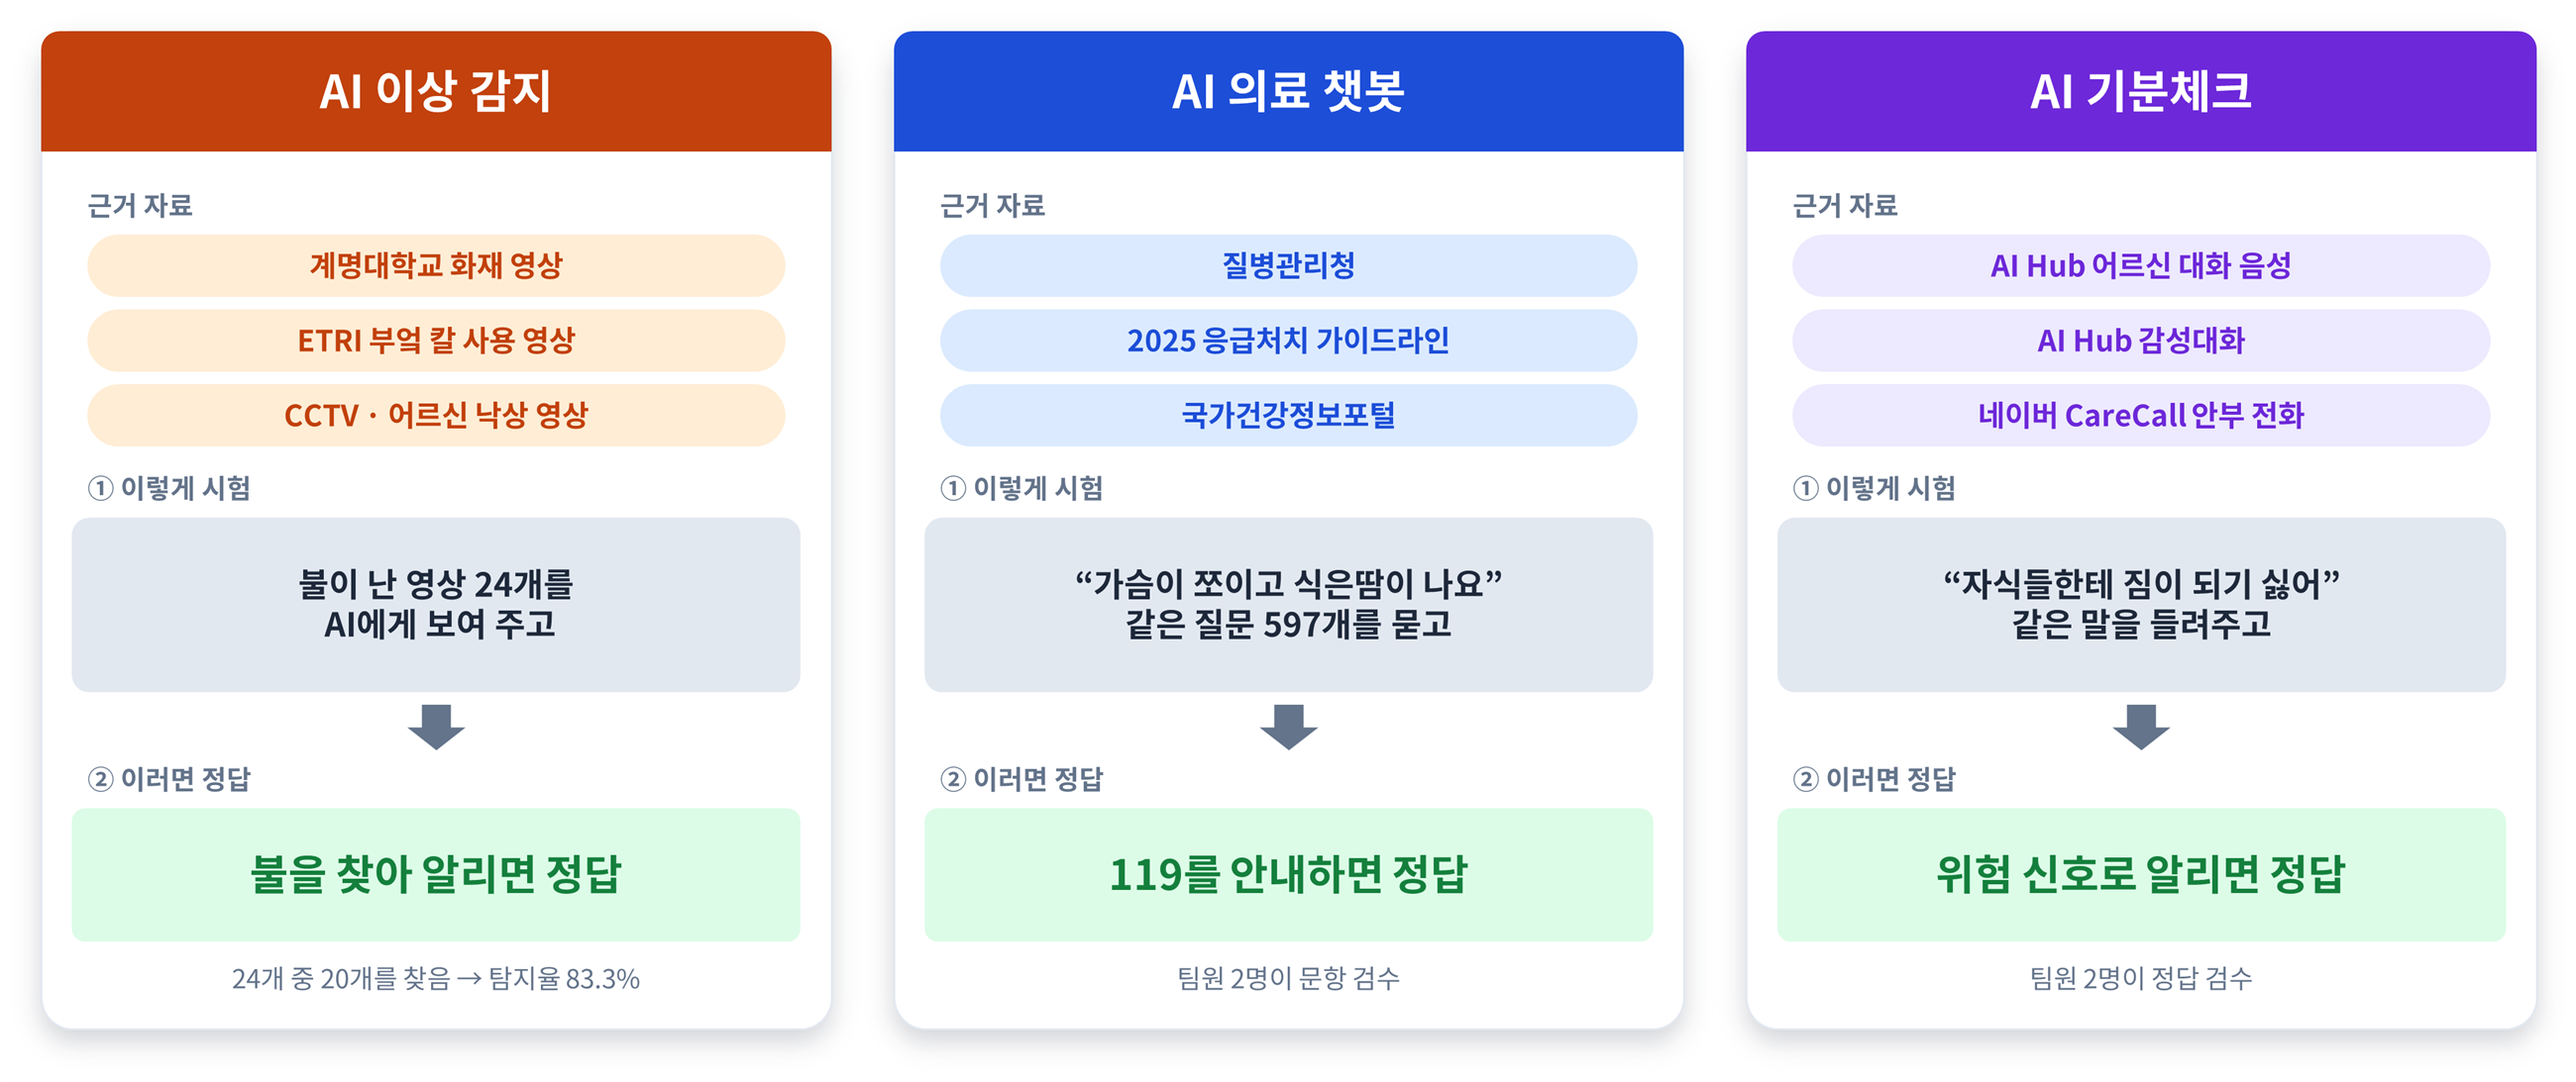
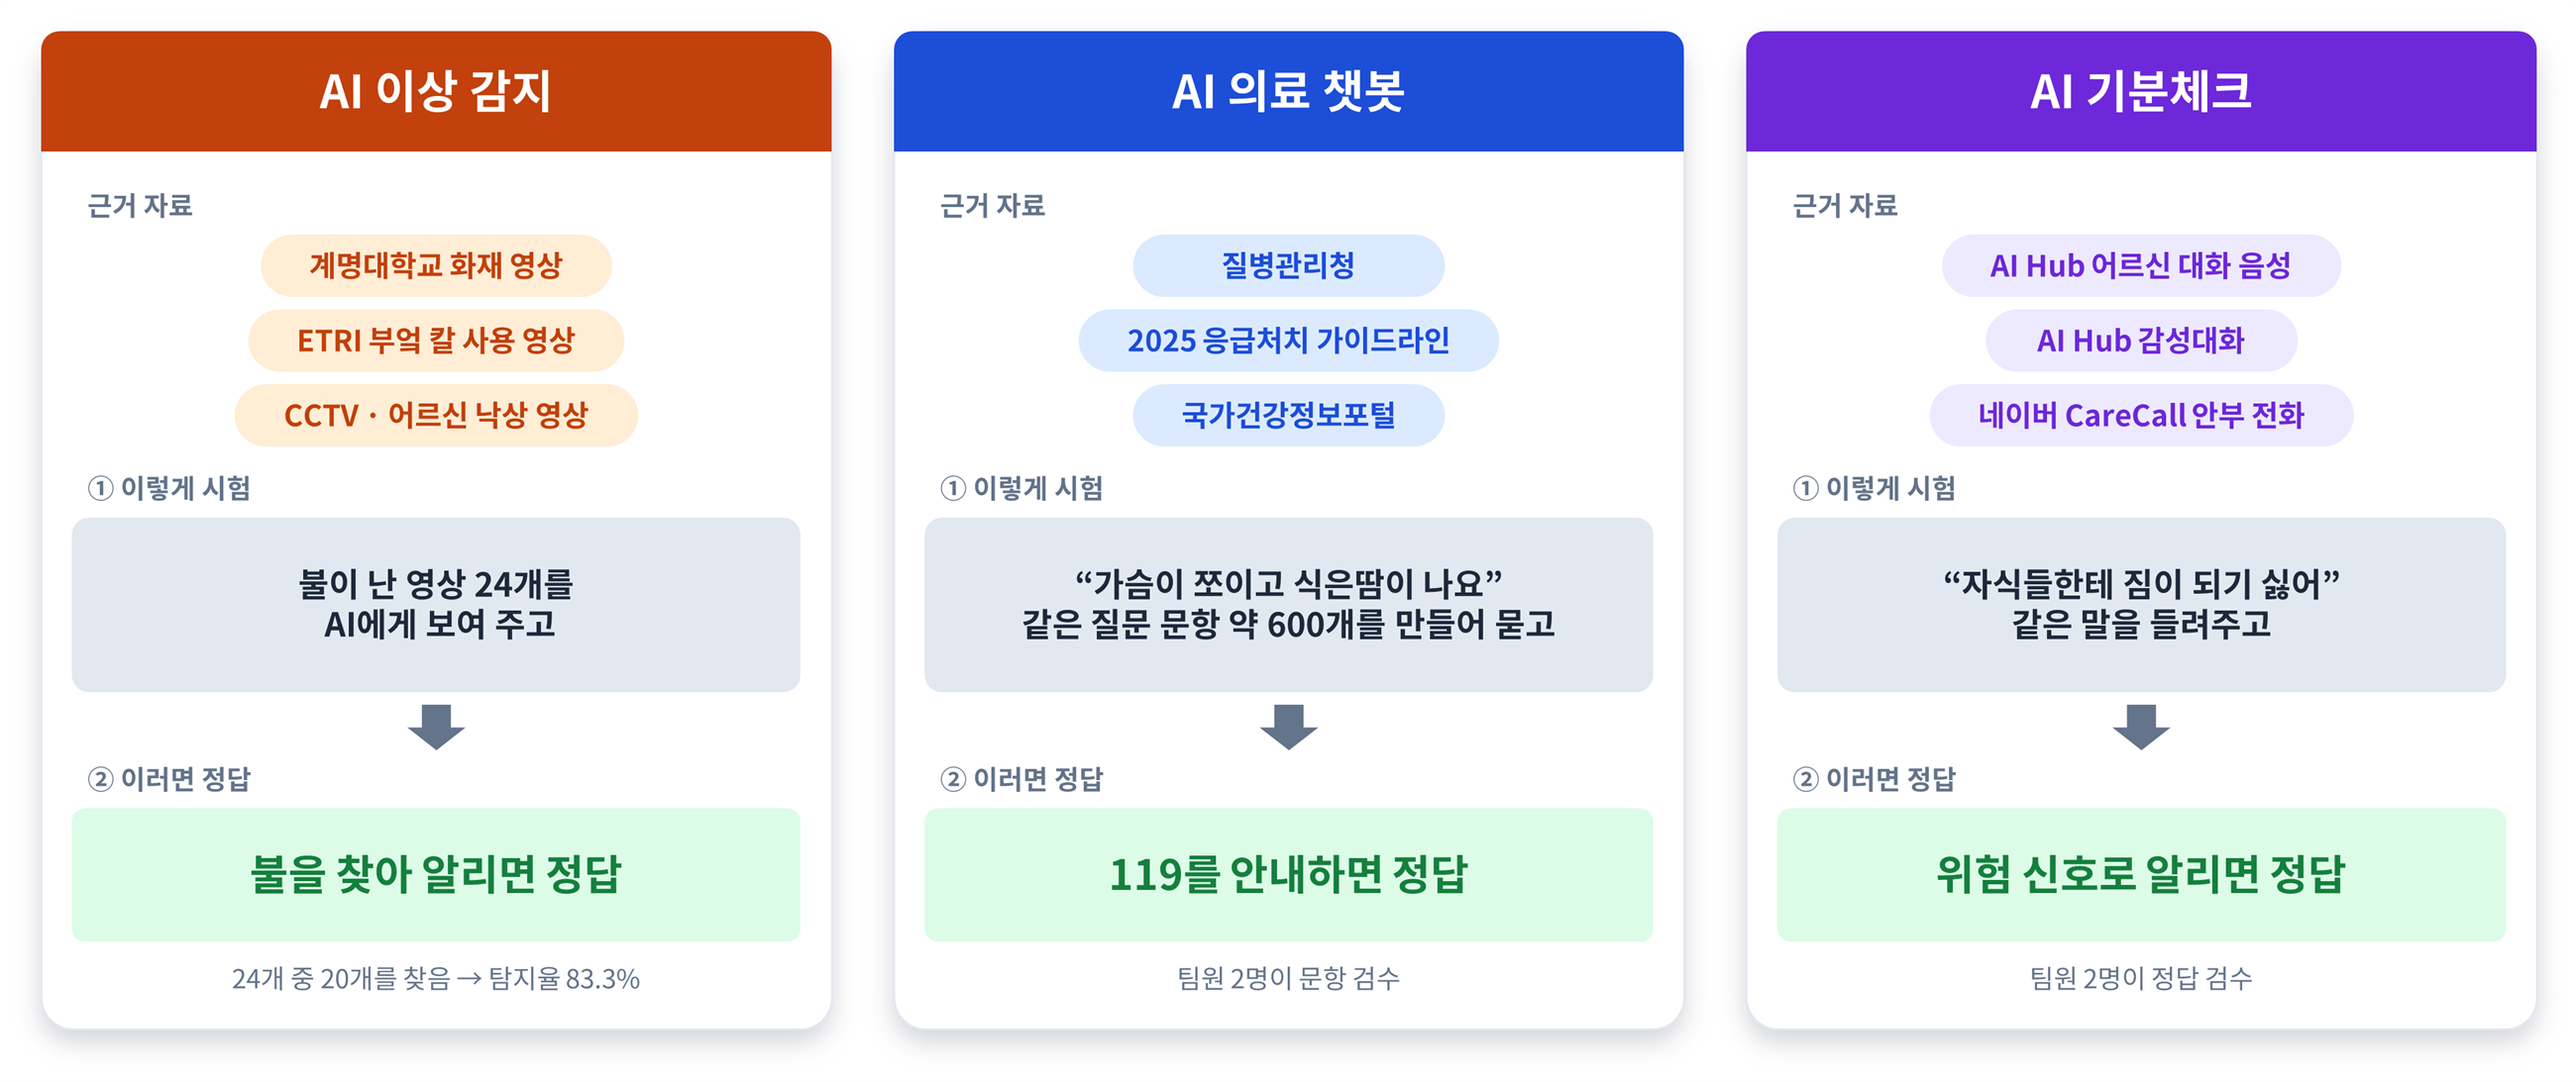
docs: README 성과 그림·문구를 발표 자료에 맞춤 (지시문 설명, 개수 표기 정리, 기분체크 얼굴 사진)

diff --git a/profile/README.md b/profile/README.md
@@ -131,7 +131,8 @@ AI 의료 챗봇이 증상 상담부터 병원 예약까지 돕고, AI가 하루
 **AI가 먼저 안부를 묻고, 보호자는 기분을 날짜별로 봅니다.**
 
 - 하루 다섯 번(9 · 12 · 15 · 18 · 21시) AI가 먼저 말을 겁니다.
-- 어르신의 말을 받아쓰고(Whisper), 말 내용으로 기분을 판단하며(EXAONE 기분 모델) 표정 분석(HSEmotion)은 보조로 씁니다.
+- 어르신의 말을 받아쓰고(Whisper), 말 내용으로 기분을 판단합니다(EXAONE 기분 모델).
+- 대답하는 동안 2초마다 얼굴 사진도 함께 보내, 표정 분석(HSEmotion)을 보조로 씁니다.
 - 위험 신호가 보이면 보호자에게 알립니다.
 
 ![AI 기분체크](./images/mood-check.png)
@@ -182,7 +183,7 @@ AI 의료 챗봇이 증상 상담부터 병원 예약까지 돕고, AI가 하루
 ### 🩺 4.2 AI 의료 챗봇
 
 **AI에게 주는 지시문(프롬프트)을 두 갈래로 고쳤습니다.**
-질문을 나누는 AI(Claude)는 응급 · 자해 판단을, 답을 쓰는 의료 AI(MedGemma)는 일반 증상 답을 맡습니다.
+Claude는 질문이 위험한지(응급 · 자해 · 심정지) 먼저 판단하고, MedGemma는 증상 질문에 실제 답을 씁니다.
 
 ![지시문 개선](./images/prompt-rules.png)
 
@@ -193,7 +194,7 @@ AI 의료 챗봇이 증상 상담부터 병원 예약까지 돕고, AI가 하루
 <details>
 <summary>📝 지시문 규칙 · 결과 숫자를 글로 보기</summary>
 
-| ① Claude 지시문에 더한 규칙 | ② MedGemma 지시문에 더한 규칙 |
+| ① Claude: 위험한 질문인지 먼저 판단 | ② MedGemma: 증상 질문에 답하는 법 |
 | --- | --- |
 | ➕ **응급** - 즉시 119가 필요한 신호가 있으면 응급으로 판단 | ➕ **119** - 숨참 · 가슴 통증 같은 위험 신호가 있을 때만 |
 | ➕ **자해** - 자해 생각이 보이면 위기로, 화제가 바뀌면 평소 대화로 | ➕ **진료 기준** - 언제 꼭 진료받을지 기준 하나 |
@@ -202,10 +203,10 @@ AI 의료 챗봇이 증상 상담부터 병원 예약까지 돕고, AI가 하루
 
 | 확인한 것 | 처음 | 지금 |
 | --- | :---: | :---: |
-| 🚑 응급 질문에 119를 안내하나요? | 63% (19/30) | **100%** (37/37) |
-| ❤🩹 숨을 안 쉬는 상황에 가슴압박 · AED를 안내하나요? | 0% (0/24) | **100%** (30/30) |
-| 🏥 병원에 갈 기준을 알려 주나요? | 38% (18/48) | **88%** (42/48) |
-| 🔕 필요 없는데 119를 말하나요? (낮을수록 좋음) | 46% (21/46) | **4%** (3/77) |
+| 🚑 응급 질문에 119를 안내하나요? | 63% | **100%** |
+| ❤🩹 숨을 안 쉬는 상황에 가슴압박 · AED를 안내하나요? | 0% | **100%** |
+| 🏥 병원에 갈 기준을 알려 주나요? | 38% | **88%** |
+| 🔕 필요 없는데 119를 말하나요? (낮을수록 좋음) | 46% | **4%** |
 
 <sub>규칙은 실제 지시문을 줄여 적은 것입니다. 응급 · 자해 안내는 응급 낱말 규칙과 함께 동작합니다.</sub>
 
@@ -229,7 +230,7 @@ AI 의료 챗봇이 증상 상담부터 병원 예약까지 돕고, AI가 하루
 | 🎙 어르신 말을 틀리게 받아쓰나요? (글자 오류율, 낮을수록 좋음) | 14.8% | **2.4%** |
 | ⚠ 돌려 말한 자살 신호를 찾나요? (40문장) | 14% | **93%** |
 | 💬 대답만 듣고 기분을 맞히나요? (800문장) | 75.4% | **83.8%** |
-| 🔕 안전한 날에 알림이 잘못 울리나요? (27명 × 7일, 낮을수록 좋음) | 33% | **4%** |
+| 🔕 위험 없는 날에 알림이 잘못 울리나요? (27명 × 7일, 낮을수록 좋음) | 33% | **4%** |
 
 </details>
 
@@ -297,7 +298,7 @@ AI 의료 챗봇이 증상 상담부터 병원 예약까지 돕고, AI가 하루
 
 - 이상 감지 · 의료 AI · AI 기분체크가 한 장을 공유
 - 카메라는 전체 3대까지
-- 의료 AI 답은 약 11초, 동시에 물으면 뒷사람이 대기
+- 의료 AI 답은 약 11초, 여러 명이 동시에 쓰면 차례로 기다림
 
 </td>
 <td>
